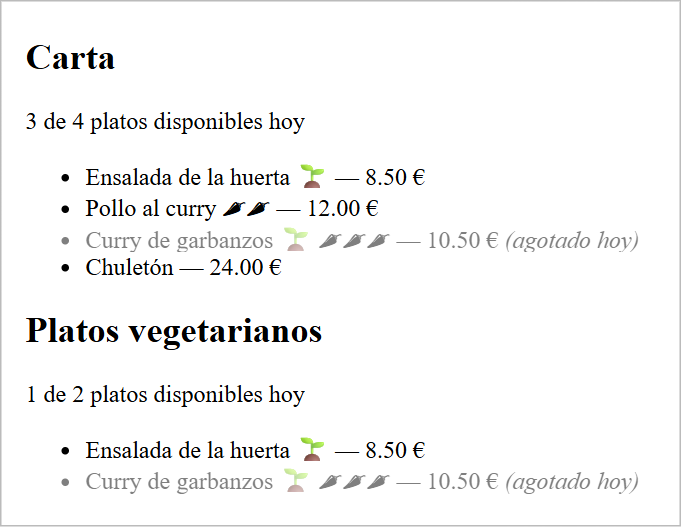
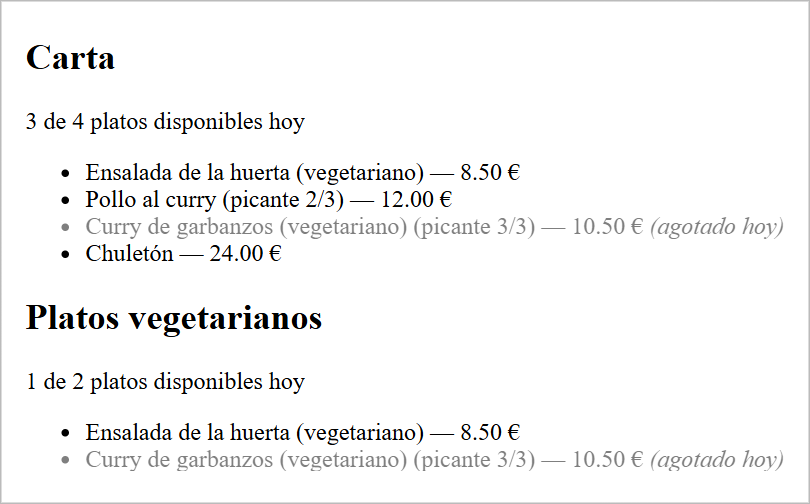
Emojis

diff --git a/ud4.md b/ud4.md
@@ -1388,7 +1388,7 @@ const nombre = "Ana";
 
 Dentro de las llaves solo se pueden escribir expresiones. Una expresión es cualquier fragmento de código que produce un valor. Una sentencia es una instrucción que hace algo pero no produce un valor. Si dudas, pregúntate: «¿podría escribir esto a la derecha de `const x = ...`?». Si la respuesta es sí, es una expresión.
 
-| ✓ Expresiones (válidas entre llaves) | ✗ Sentencias (no válidas entre llaves) |
+| Expresiones (válidas entre llaves) | Sentencias (no válidas entre llaves) |
 | --- | --- |
 | `nombre` (una variable) | `if (...) { ... } else { ... }` |
 | `2 + 3`, `precio * 1.21` (operaciones) | `for (...) { ... }`, `while (...) { ... }` |
@@ -1598,7 +1598,7 @@ Tabla de equivalencias más frecuentes:
 
 JSX es más estricto que HTML. El navegador perdona muchos errores de HTML, pero un error de JSX impide que la aplicación funcione. Estas son las reglas y el error que verás si no las cumples:
 
-| # | Regla | ✗ Incorrecto | ✓ Correcto |
+| # | Regla | Incorrecto | Correcto |
 | --- | --- | --- | --- |
 | 1 | **Un único elemento raíz** en cada `return`. | `return <h1>A</h1><p>B</p>;` | `return <><h1>A</h1><p>B</p></>;` |
 | 2 | **Todas las etiquetas se cierran**, también las vacías. | `<img src="a.png">`, `<br>` | `<img src="a.png" />`, `<br />` |
@@ -1636,10 +1636,10 @@ const element = (
 > **¿Por qué los paréntesis?** Si después de `return` hay un salto de línea, JavaScript inserta automáticamente un punto y coma y la función devuelve `undefined`. Los paréntesis le indican que el valor continúa en las líneas siguientes:
 >
 > ```jsx
-> return          // ✗ JavaScript entiende "return;" y devuelve undefined
+> return          // Incorrecto: JavaScript entiende "return;" y devuelve undefined
 >   <h1>Hola</h1>;
 >
-> return (        // ✓ Correcto
+> return (        // Correcto
 >   <h1>Hola</h1>
 > );
 > ```
@@ -2302,7 +2302,7 @@ Las props son inmutables: un componente nunca debe modificar las props que recib
 
 ```jsx
 function Contador({ valor }) {
-  valor = valor + 1; // ✗ MAL: no se modifican las props
+  valor = valor + 1; // MAL: no se modifican las props
   return <p>{valor}</p>;
 }
 ```
@@ -2321,7 +2321,7 @@ Las props pueden ser de cualquier tipo: textos, números, booleanos, arrays, obj
   tipos={["eléctrico"]}                  // array
   stats={{ ataque: 55, defensa: 40 }}    // objeto (llaves de expresión + llaves del objeto)
   onSeleccionar={() => console.log("!")} // función
-  icono={<span>⚡</span>}                // elemento JSX
+  icono={<img src="rayo.png" alt="" />}  // elemento JSX
 />
 ```
 
@@ -2415,7 +2415,7 @@ function Aviso({ icono, titulo, children }) {
   );
 }
 
-<Aviso icono={<span>⚠</span>} titulo="Atención">
+<Aviso icono={<img src="alerta.png" alt="" width={16} />} titulo="Atención">
   Revisa los datos antes de enviar.
 </Aviso>
 
@@ -2961,7 +2961,7 @@ El objeto puede tener estas propiedades, y todas, salvo el título, pueden falta
 Además:
 
 - Si hay varios autores, se mostrarán en una sola línea separados por comas: «Ana Ruiz, Pablo Gil».
-- Si el libro está premiado, se mostrará un trofeo (🏆) detrás del título.
+- Si el libro está premiado, se mostrará «(premiado)» detrás del título.
 - El subtítulo, si lo hay, irá en cursiva.
 - Los géneros se mostrarán en una lista.
 
@@ -2985,7 +2985,7 @@ Pruébalo así:
 
 Resultado esperado (arriba con todos los datos y abajo con los que faltan):
 
-![Resultado de FichaLibro: un libro con portada, trofeo, subtítulo, dos autores, páginas, sinopsis y géneros; debajo, otro libro con la portada por defecto, autor desconocido, páginas desconocidas y sin sinopsis](./assets/img/ud4-ej-libro.png){: width="460"}
+![Resultado de FichaLibro: un libro con portada, la marca de premiado, subtítulo, dos autores, páginas, sinopsis y géneros; debajo, otro libro con la portada por defecto, autor desconocido, páginas desconocidas y sin sinopsis](./assets/img/ud4-ej-libro.png){: width="460"}
 
 {% endraw %}{% comment %}{% raw %}
 
@@ -2998,7 +2998,7 @@ function FichaLibro({ libro }) {
       <img src={portada ?? "https://placehold.co/60x90?text=?"} alt={`Portada de ${titulo}`} width={60} />
       <h3>
         {titulo}
-        {premiado && " 🏆"}
+        {premiado && " (premiado)"}
       </h3>
       {subtitulo && (
         <p>
@@ -3025,7 +3025,7 @@ Paso a paso:
 - **Desestructuración con valores por defecto.** Si el objeto no trae `autores`, `premiado` o `generos`, toman `[]`, `false` y `[]`. Gracias a eso, más abajo se puede escribir `autores.length` sin miedo a que `autores` sea `undefined`.
 - **`??` para la portada.** Si no hay portada, se usa una imagen por defecto. `??` solo actúa cuando el valor es `null` o `undefined`.
 - **`||` para la sinopsis.** Aquí interesa `||` y no `??`: la sinopsis del segundo libro es un texto vacío `""`, y con `??` se mostraría un párrafo vacío (apartado 3.9.3).
-- **`&&` para lo que solo aparece a veces.** El trofeo, el subtítulo y la lista de géneros no tienen alternativa: si no hay dato, no se muestra nada. En los géneros la condición es `generos.length > 0` y no `generos.length`, para que no aparezca un `0`.
+- **`&&` para lo que solo aparece a veces.** El texto «(premiado)», el subtítulo y la lista de géneros no tienen alternativa: si no hay dato, no se muestra nada. En los géneros la condición es `generos.length > 0` y no `generos.length`, para que no aparezca un `0`.
 - **Ternarios para lo que tiene alternativa.** Los autores y las páginas muestran un texto u otro. `join(", ")` convierte el array de autores en un texto separado por comas.
 - **`key`.** Los géneros son textos sueltos, sin id. Como un libro no repite el mismo género, el propio texto sirve como `key`.
 
@@ -3146,8 +3146,8 @@ const platos = [
 Requisitos:
 
 - Cada plato se mostrará en un componente propio, `Plato`, con su nombre y su precio con dos decimales: «Chuletón — 24.00 €».
-- Los platos vegetarianos llevarán una planta (🌱) detrás del nombre.
-- El nivel de picante (de 0 a 3) se mostrará con tantas guindillas (🌶) como indique. Si es 0, no se mostrará ninguna. Pista: los textos tienen el método `repeat`.
+- Los platos vegetarianos llevarán el texto «(vegetariano)» detrás del nombre.
+- Los platos picantes mostrarán su nivel de picante, de 1 a 3, detrás del nombre: «(picante 2/3)». Los que tienen picante 0 no mostrarán nada.
 - Los platos no disponibles se verán atenuados y con el texto «(agotado hoy)» en cursiva.
 - El componente tendrá una prop booleana `soloVegetarianos`. Si se activa, solo se mostrarán los platos vegetarianos y el título será «Platos vegetarianos» en lugar de «Carta».
 - Debajo del título se indicará cuántos de los platos mostrados están disponibles: «3 de 4 platos disponibles hoy».
@@ -3162,7 +3162,7 @@ Pruébalo así:
 
 Resultado esperado:
 
-![Resultado de Carta: la carta completa con la planta en los platos vegetarianos, guindillas según el picante y el curry de garbanzos atenuado y agotado; debajo, la sección de platos vegetarianos con solo dos platos](./assets/img/ud4-ej-carta.png){: width="460"}
+![Resultado de Carta: la carta completa con los platos vegetarianos y picantes marcados con texto y el curry de garbanzos atenuado y agotado; debajo, la sección de platos vegetarianos con solo dos platos](./assets/img/ud4-ej-carta.png){: width="460"}
 
 {% endraw %}{% comment %}{% raw %}
 
@@ -3171,8 +3171,8 @@ function Plato({ nombre, precio, vegetariano, picante, disponible }) {
   return (
     <li style={{ opacity: disponible ? 1 : 0.5 }}>
       {nombre}
-      {vegetariano && " 🌱"}
-      {picante > 0 && " " + "🌶".repeat(picante)}
+      {vegetariano && " (vegetariano)"}
+      {picante > 0 && ` (picante ${picante}/3)`}
       {" — "}
       {precio.toFixed(2)} €
       {!disponible && <em> (agotado hoy)</em>}
@@ -3208,8 +3208,8 @@ function Carta({ platos, soloVegetarianos = false }) {
 
 Paso a paso:
 
-- **Varias condiciones independientes en cada plato.** La planta, las guindillas y «(agotado hoy)» son tres `&&` separados: cada uno depende de un dato distinto y pueden aparecer a la vez.
-- **Repetir un símbolo.** `"🌶".repeat(picante)` devuelve el símbolo repetido tantas veces como indique el número. La condición `picante > 0` evita añadir un espacio sobrante cuando no hay picante.
+- **Varias condiciones independientes en cada plato.** «(vegetariano)», el picante y «(agotado hoy)» son tres `&&` separados: cada uno depende de un dato distinto y pueden aparecer a la vez.
+- **Un número dentro de un texto.** El nivel de picante se inserta en una *template literal*. La condición `picante > 0` hace que los platos sin picante no muestren «(picante 0/3)».
 - **El separador `{" — "}`.** JSX elimina los saltos de línea entre las líneas de código, así que los espacios que deben verse se escriben dentro de un texto entre llaves.
 - **Prop booleana.** `soloVegetarianos` decide si se filtra y qué título se muestra. Al usarlo basta con escribir `soloVegetarianos` (apartado 3.5.1), y si no se pone vale `false`.
 - **Contador sobre los platos visibles.** `disponibles` se calcula a partir de `visibles` y no de `platos`, para que el contador de la sección vegetariana cuente solo sus platos: «1 de 2».
@@ -4188,8 +4188,8 @@ Por convenio, las funciones que manejan eventos se llaman `handleAlgo` (`handleC
 > **Error muy frecuente: llamar a la función en lugar de pasarla.**
 >
 > ```jsx
-> <button onClick={handleClick}>   // ✓ Se pasa la función; se ejecutará al hacer clic
-> <button onClick={handleClick()}> // ✗ Se ejecuta durante el renderizado, no al hacer clic
+> <button onClick={handleClick}>   // Bien: se pasa la función; se ejecutará al hacer clic
+> <button onClick={handleClick()}> // Mal: se ejecuta durante el renderizado, no al hacer clic
 > ```
 
 ### 7.1.1 Pasar parámetros a los manejadores
@@ -4621,7 +4621,7 @@ Los hooks son funciones que permiten a los componentes funcionales usar el estad
 ```jsx
 function Perfil({ usuario }) {
   if (!usuario) return null;
-  const [abierto, setAbierto] = useState(false); // ✗ Hook después de un return condicional
+  const [abierto, setAbierto] = useState(false); // MAL: hook después de un return condicional
   // ...
 }
 ```
@@ -4715,11 +4715,11 @@ React detecta los cambios comparando la referencia del estado anterior con la de
 ```jsx
 const [usuario, setUsuario] = useState({ nombre: "Ana", edad: 30 });
 
-// ✗ MAL: muta el objeto, React no se entera
+// MAL: muta el objeto, React no se entera
 usuario.edad = 31;
 setUsuario(usuario);
 
-// ✓ BIEN: crea un objeto nuevo copiando el anterior
+// BIEN: crea un objeto nuevo copiando el anterior
 setUsuario({ ...usuario, edad: 31 });
 // o con función actualizadora
 setUsuario((prev) => ({ ...prev, edad: prev.edad + 1 }));
@@ -4727,7 +4727,7 @@ setUsuario((prev) => ({ ...prev, edad: prev.edad + 1 }));
 
 **Arrays.** Operaciones habituales sin mutar:
 
-| Operación | ✗ Muta (evitar) | ✓ Crea un array nuevo |
+| Operación | Muta (evitar) | Crea un array nuevo |
 | --- | --- | --- |
 | Añadir | `push`, `unshift` | `[...arr, nuevo]`, `[nuevo, ...arr]` |
 | Eliminar | `splice`, `pop`, `shift` | `arr.filter(x => x.id !== id)` |
@@ -4985,11 +4985,11 @@ Un error común es usar efectos para cosas que no son efectos:
 - **Calcular datos a partir de props o estado:** hazlo directamente durante el renderizado.
 
   ```jsx
-  // ✗ Innecesario
+  // MAL: innecesario
   const [total, setTotal] = useState(0);
   useEffect(() => { setTotal(items.reduce((s, i) => s + i.precio, 0)); }, [items]);
 
-  // ✓ Se calcula al renderizar
+  // BIEN: se calcula al renderizar
   const total = items.reduce((s, i) => s + i.precio, 0);
   ```
 
